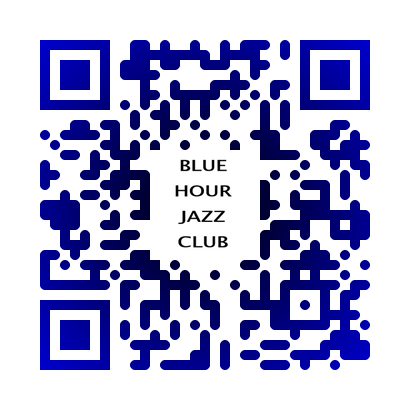
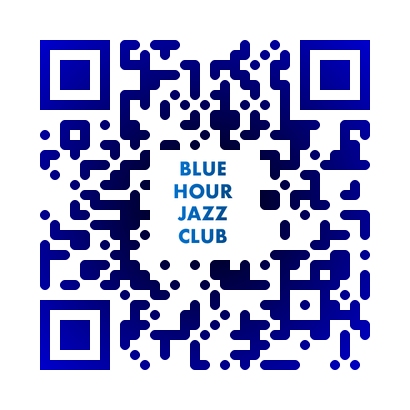
Changed member

Changed region(s): [[0.0878, 0.0878, 0.9073, 0.9073], [0.1171, 0.6732, 0.1463, 0.7317]]

diff --git a/bhjcqr.py b/bhjcqr.py
@@ -28,7 +28,6 @@ img = qrcode.make(data)
 # save img to a file
 img.save("Beat Zimmermann.png")
 
-
 # styled method
 
 from qrcode.image.styledpil import StyledPilImage
@@ -36,7 +35,7 @@ from qrcode.image.styles.moduledrawers.pil import RoundedModuleDrawer
 from qrcode.image.styles.colormasks import RadialGradiantColorMask
 
 # input data
-data = "Robert Carnicero - Socio 00001"
+data = "Beat Zimmermann \n Socio Nº 00003"
 qr = qrcode.QRCode(error_correction=qrcode.constants.ERROR_CORRECT_H)
 qr.add_data(data)
 
